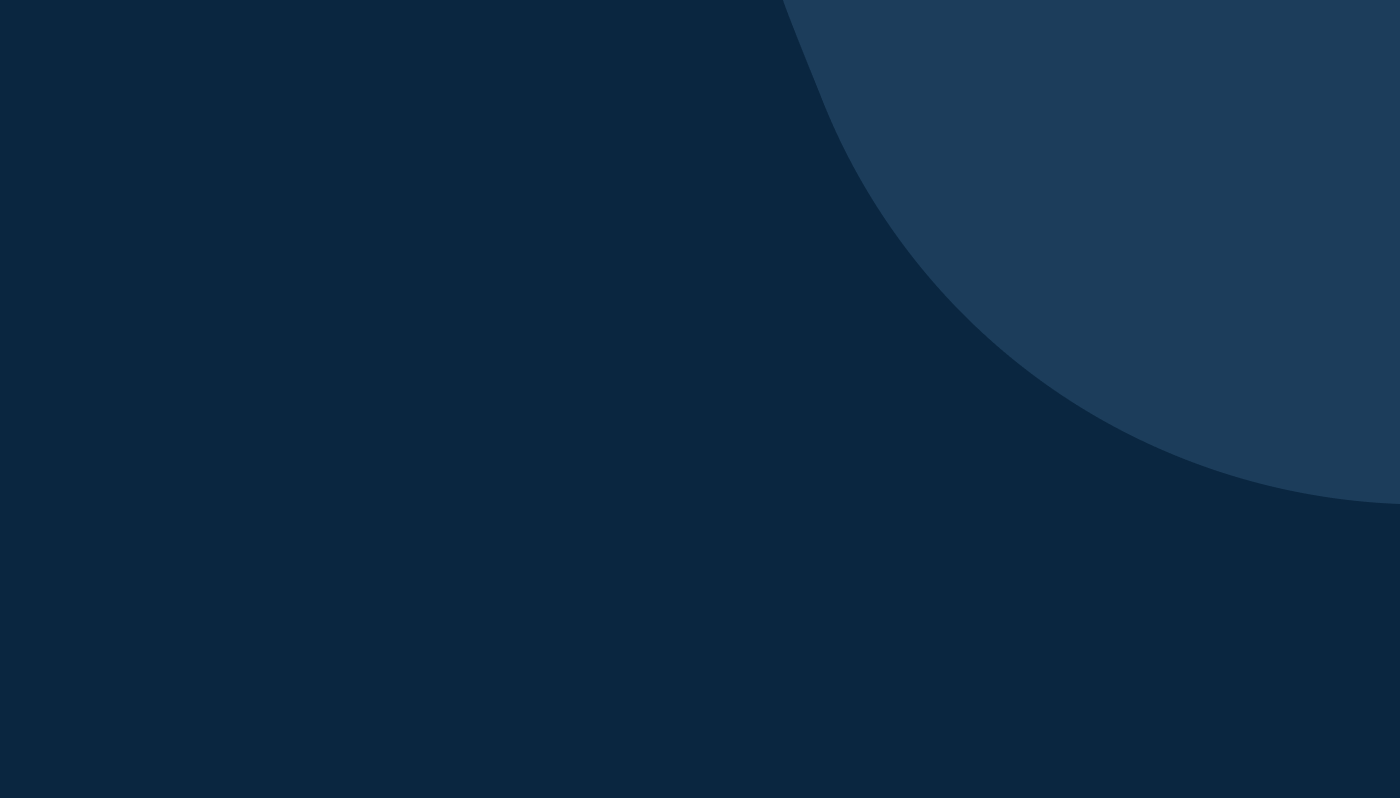
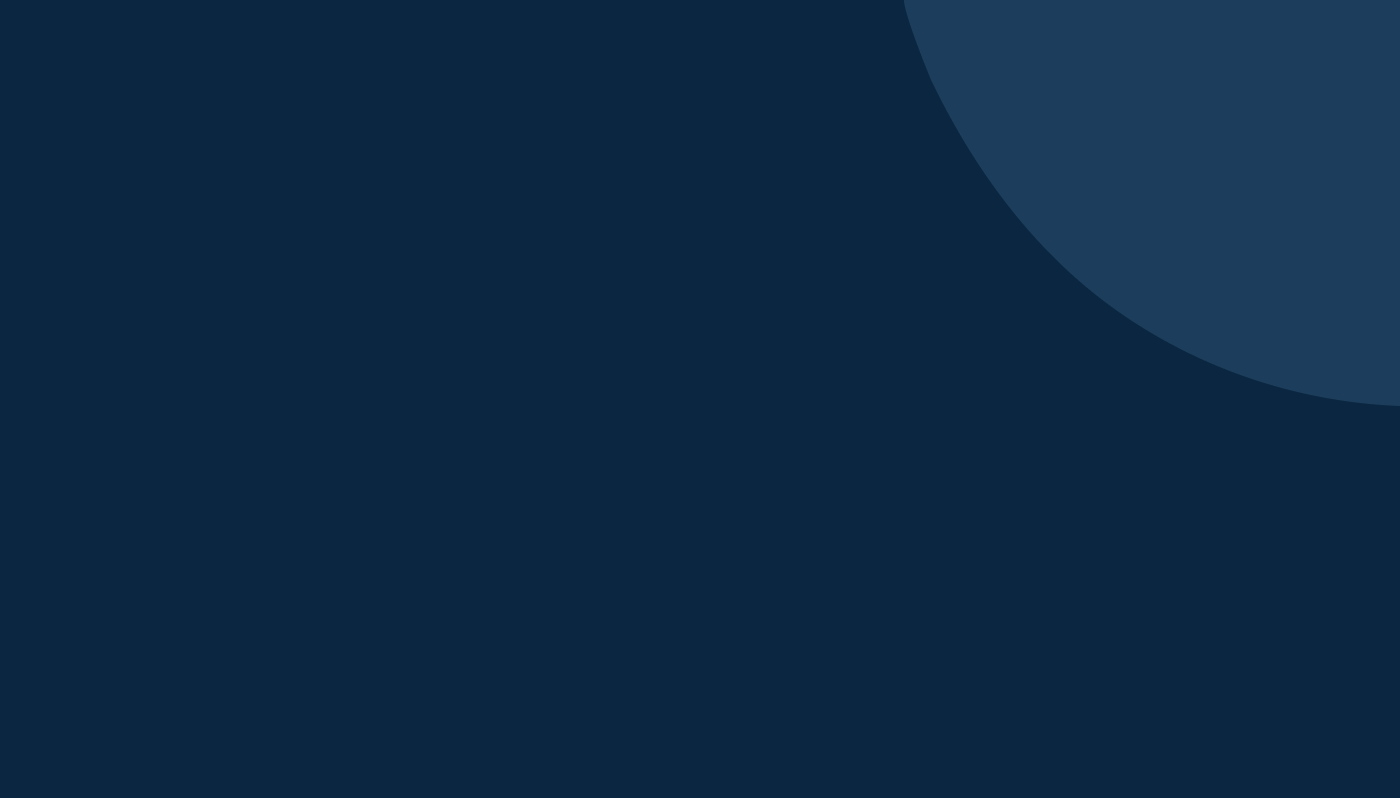
Horizontal Slider

Changed region(s): [[0.5529, 0.0, 1.0, 0.6316]]

diff --git a/components/Homepage/HeroSection.tsx b/components/Homepage/HeroSection.tsx
@@ -31,10 +31,24 @@ function HeroSection() {
 				</div>
 			</div>
 
-			<HorizontalSlider>
-				<Image src={LogoWall1} alt='Presto' width={146.51} />
-				<Image src={LogoWall2} alt='Boldo' width={146.51} />
-			</HorizontalSlider>
+			<div className='relative pl-5 pr-5 '>
+				<div className={styles.shade1} />
+				<HorizontalSlider id='logo-wall'>
+					<div className={styles.logoWallImage1} />
+					<div className={styles.logoWallImage2} />
+					<div className={styles.logoWallImage1} />
+					<div className={styles.logoWallImage2} />
+					<div className={styles.logoWallImage1} />
+					<div className={styles.logoWallImage2} />
+					<div className={styles.logoWallImage1} />
+					<div className={styles.logoWallImage2} />
+					<div className={styles.logoWallImage1} />
+					<div className={styles.logoWallImage2} />
+					<div className={styles.logoWallImage1} />
+					<div className={styles.logoWallImage2} />
+				</HorizontalSlider>
+				<div className={styles.shade2} />
+			</div>
 		</div>
 	);
 }

diff --git a/styles/HeroSection.module.css b/styles/HeroSection.module.css
@@ -96,3 +96,38 @@
 	background-color: #fff;
 	color: #0a2640;
 }
+
+.logoWallImage1 {
+	min-width: 145px;
+	background-image: url(../public/images/logo-wall/boldo.png);
+	background-size: contain;
+	background-repeat: no-repeat;
+	min-height: 42px;
+}
+.logoWallImage2 {
+	min-width: 145px;
+	background-image: url(../public/images/logo-wall/presto.png);
+	background-size: contain;
+	background-repeat: no-repeat;
+	min-height: 42px;
+}
+
+.shade1 {
+	position: absolute;
+	left: 0;
+	width: 400px;
+	background: linear-gradient(90deg, #0a2640 0%, rgba(10, 38, 64, 0.109375) 79.6%);
+	top: 0;
+	bottom: 0;
+	z-index: 1;
+}
+.shade2 {
+	position: absolute;
+	right: 0;
+	width: 400px;
+	background: linear-gradient(90deg, #0a2640 0%, rgba(10, 38, 64, 0.109375) 79.6%);
+	top: 0;
+	bottom: 0;
+	z-index: 1;
+	transform: rotate(180deg);
+}

diff --git a/components/reusable/HorizontalSlider/styles.module.css b/components/reusable/HorizontalSlider/styles.module.css
@@ -2,7 +2,7 @@
 	max-width: 100%;
 	display: flex;
 	flex-direction: row;
-	gap: 20px;
+	gap: 55px;
 	align-items: center;
 	overflow-x: auto;
 	overflow-y: hidden;
@@ -11,7 +11,12 @@
 	scrollbar-width: none; /* Firefox */
 	cursor: grab;
 	cursor: -webkit-grab;
-	padding-block: 20px;
+	/* padding-block: 20px; */
+	padding-top: 28.53px;
+	padding-bottom: 23.18px;
 	position: relative;
 	scroll-behavior: smooth;
+}
+.container::-webkit-scrollbar {
+	display: none;
 }
